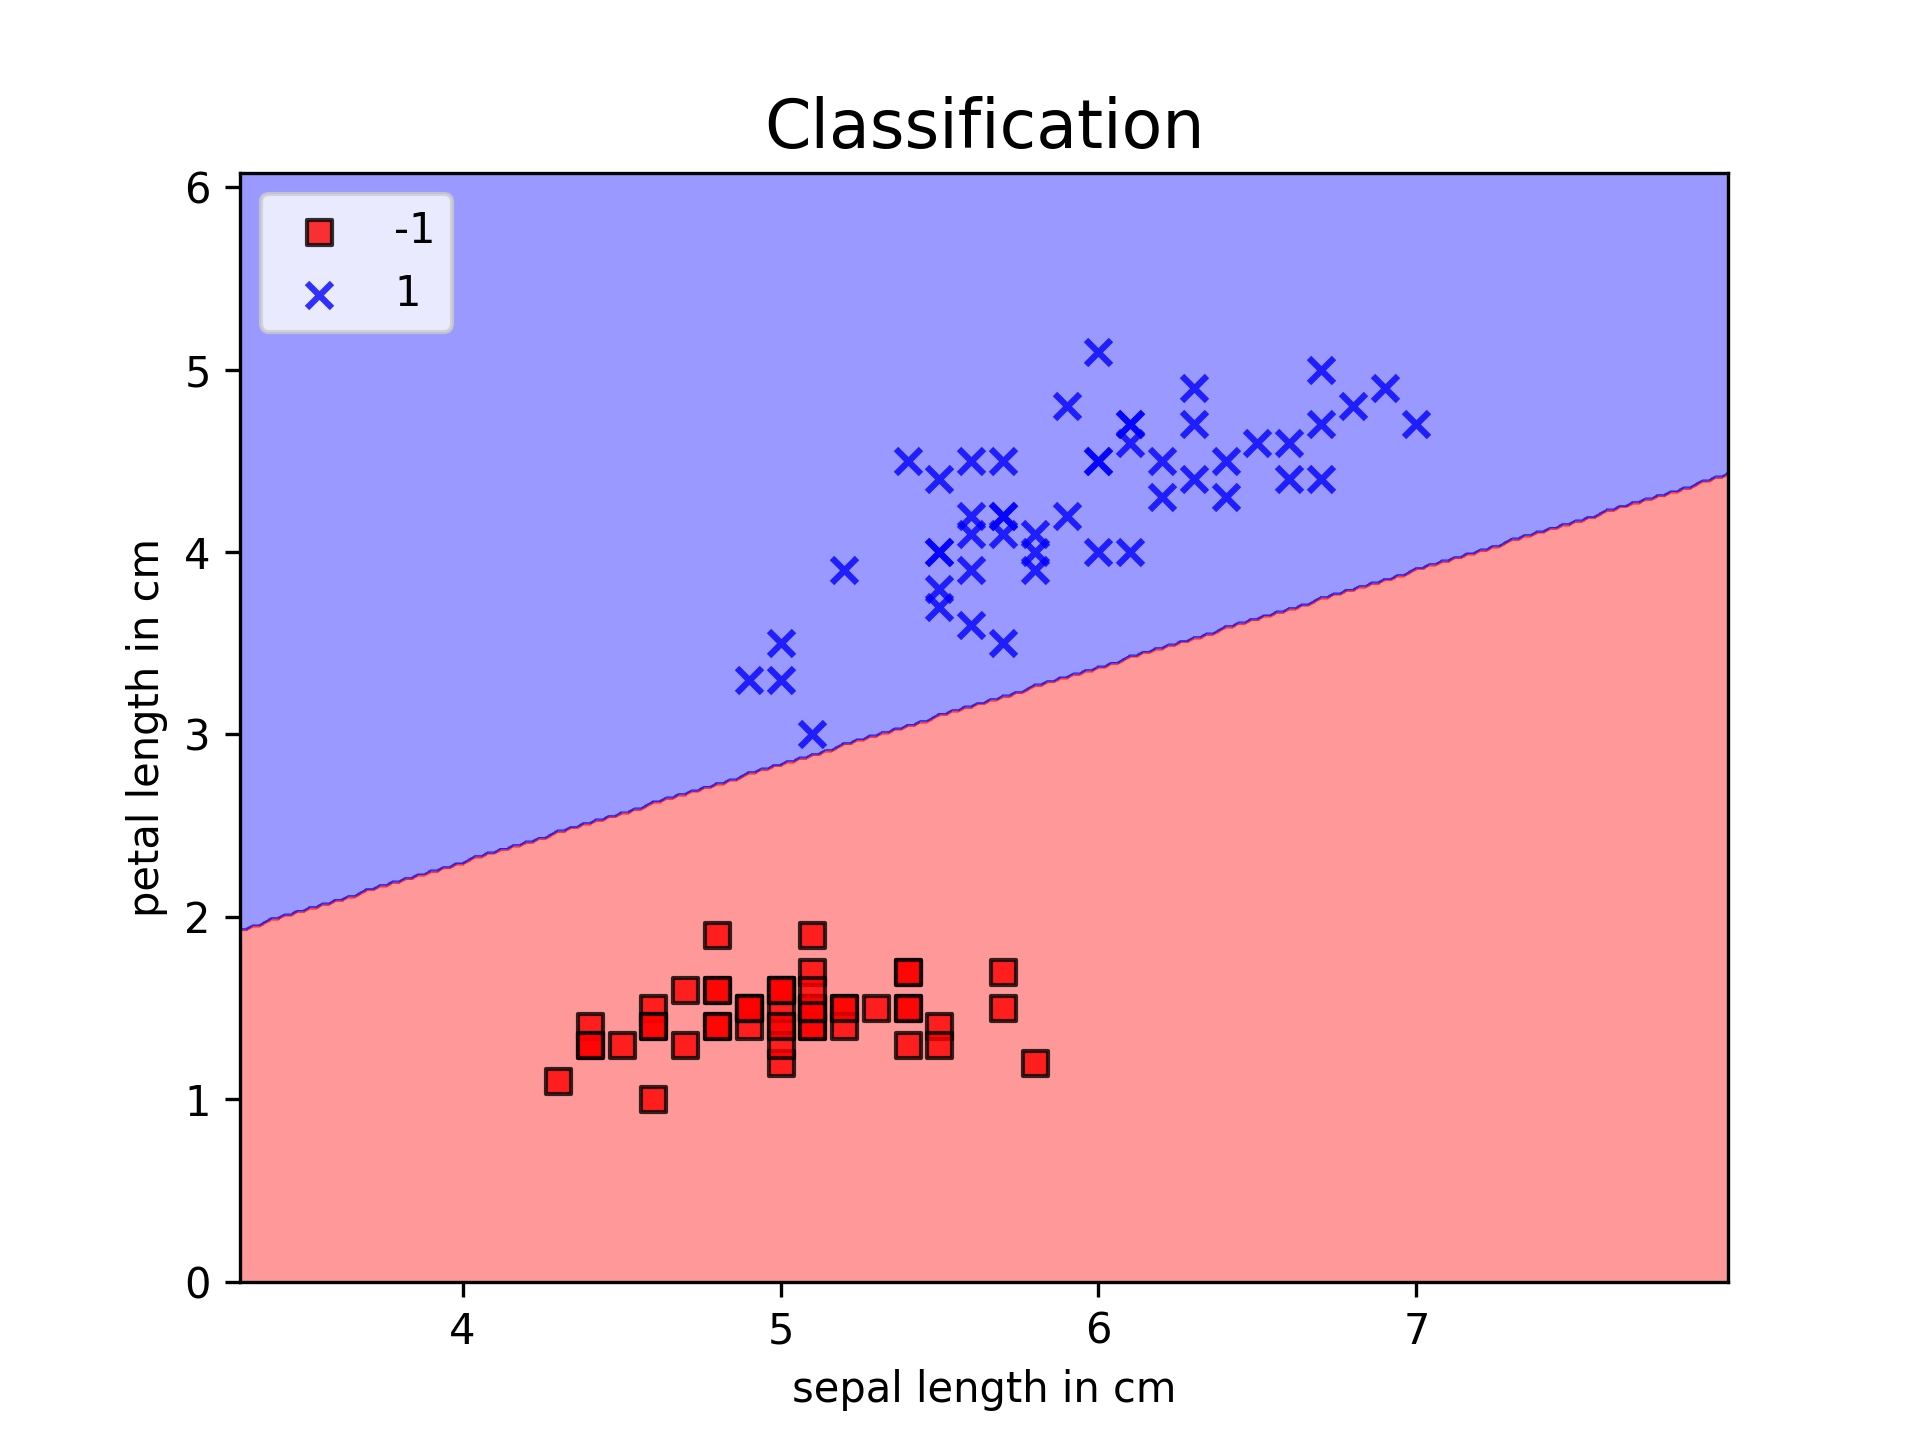
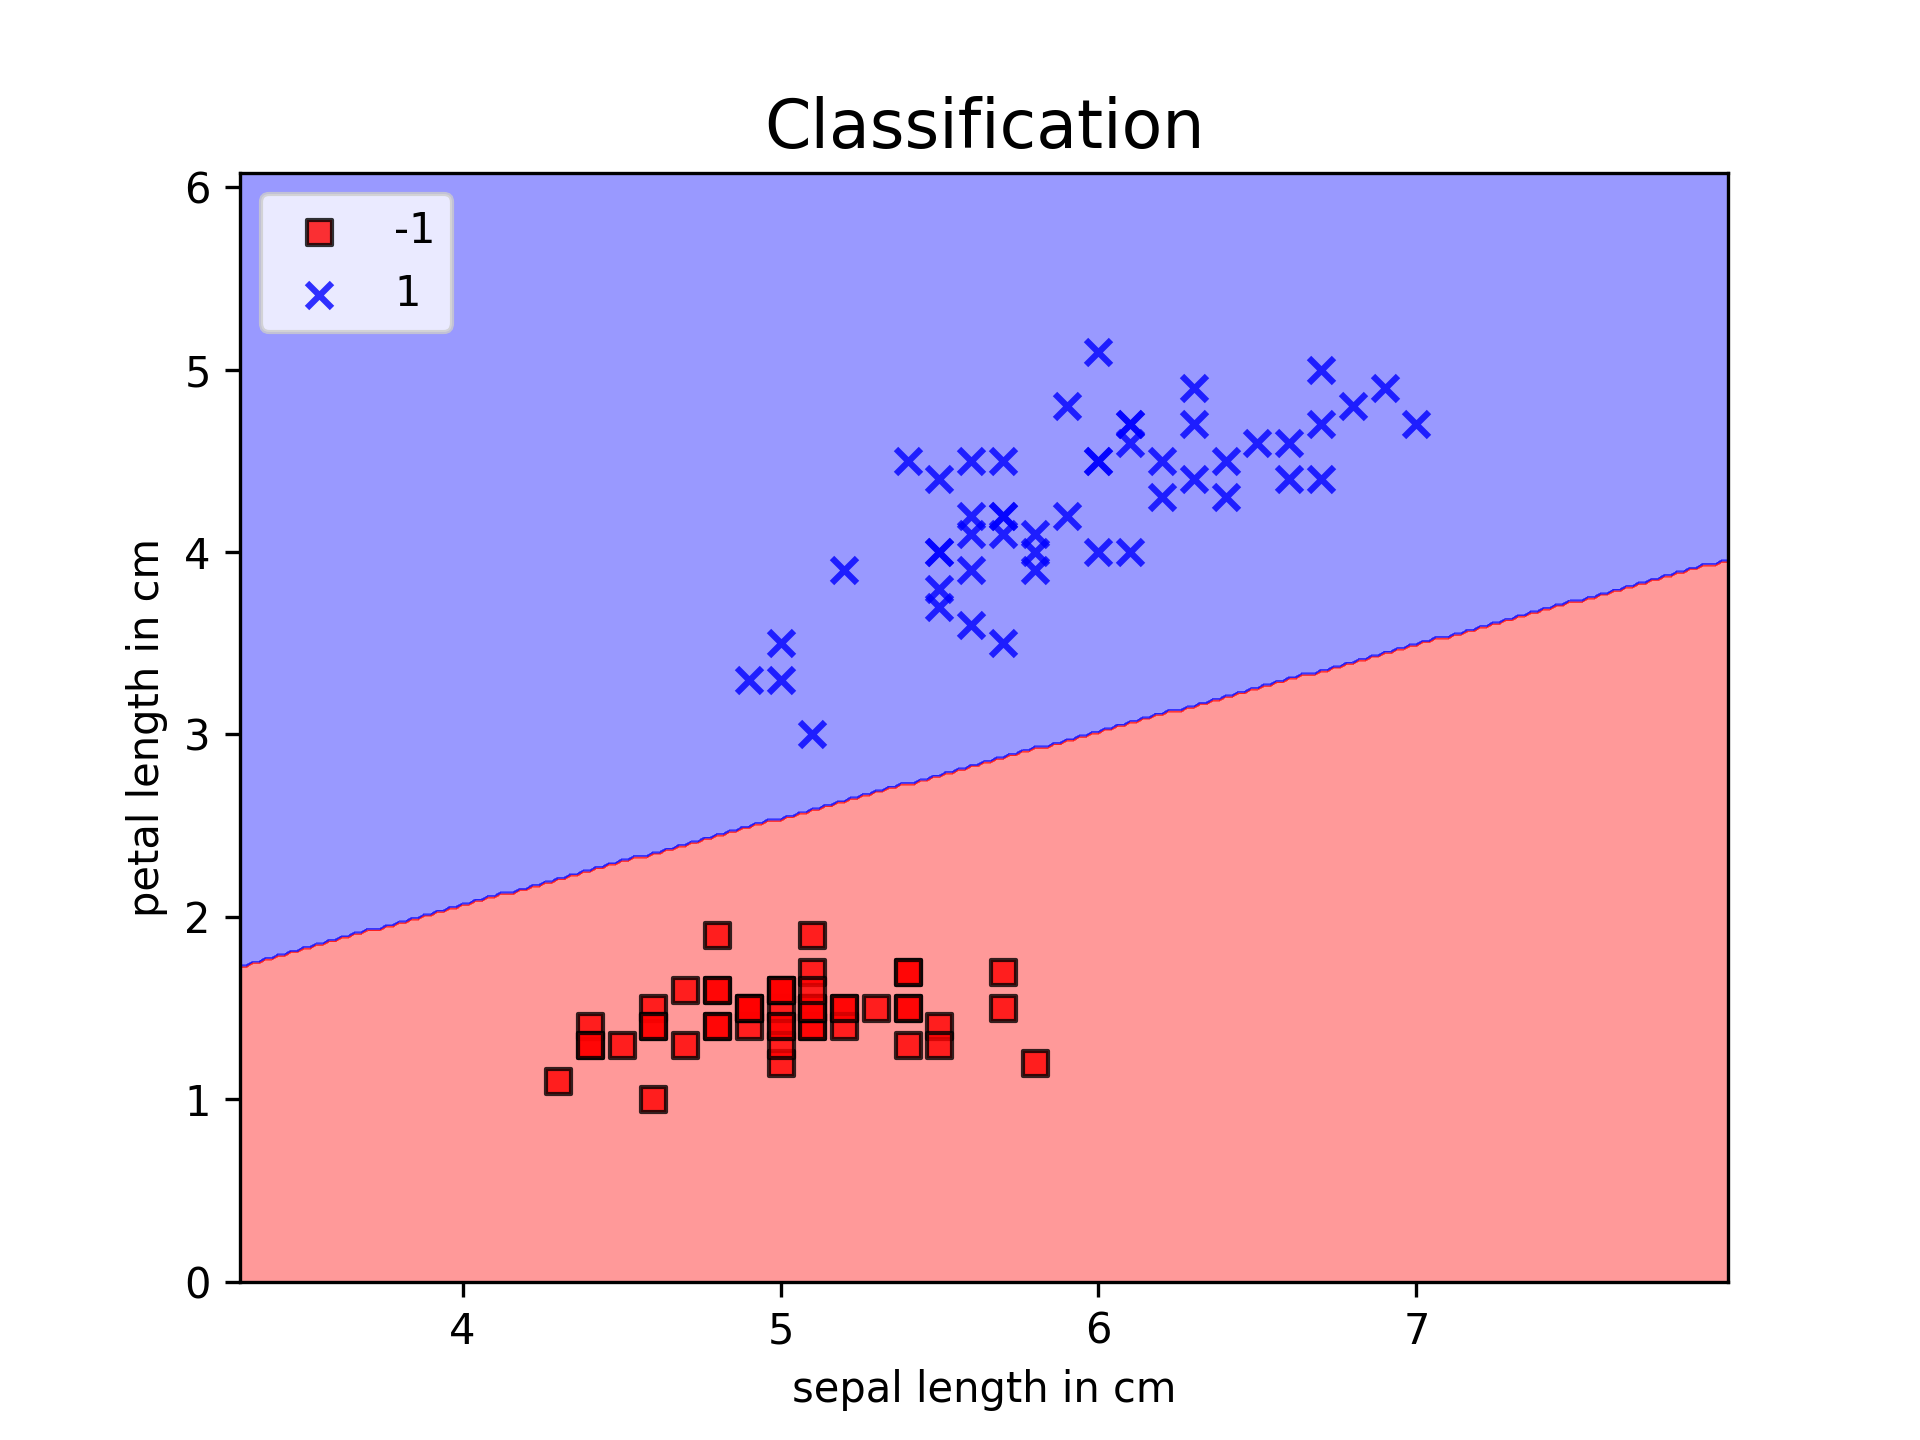
Update images in Samples directory and README.md

Changed region(s): [[0.125, 0.3125, 0.9062, 0.6875]]

diff --git a/cli_application.py b/cli_application.py
@@ -107,9 +107,9 @@ class CliApplication:
             np.arange(x1_min, x1_max, resolution),
             np.arange(x2_min, x2_max, resolution)
         )
-        Z = self._classifier.predict(np.array([xx1.ravel(), xx2.ravel()]).T)
-        Z = Z.reshape(xx1.shape)
-        plt.contourf(xx1, xx2, Z, alpha=0.4, cmap=cmap)
+        classes = self._classifier.predict(np.array([xx1.ravel(), xx2.ravel()]).T)
+        classes = classes.reshape(xx1.shape)
+        plt.contourf(xx1, xx2, classes, alpha=0.4, cmap=cmap)
         plt.xlim(xx1.min(), xx1.max())
         plt.ylim(xx2.min(), xx2.max())
 
@@ -129,7 +129,7 @@ class CliApplication:
         plt.ylabel('petal length in cm')
         plt.legend(loc='upper left')
 
-        plt.savefig('./3_perceptron_decision_refions.png', dpi=300)
+        plt.savefig('./3_perceptron_decision_regions.png', dpi=300)
         if self._show:
             plt.show()
 

diff --git a/README.md b/README.md
@@ -7,7 +7,7 @@ Naive implementation of [Frank Rosenblatt's perceptron](https://en.wikipedia.org
 
 The plotted information about Setosa and Versicolor flower's petal and sepal lengths:
 ![1](samples/1_data.png)
-The model is stable after 6 training iterations:
+The model is stable after 2 training iterations:
 ![2](samples/2_perceptron_training.png)
 Illustrated perceptron's decision regions
 ![3](samples/3_perceptron_decision_regions.png)
